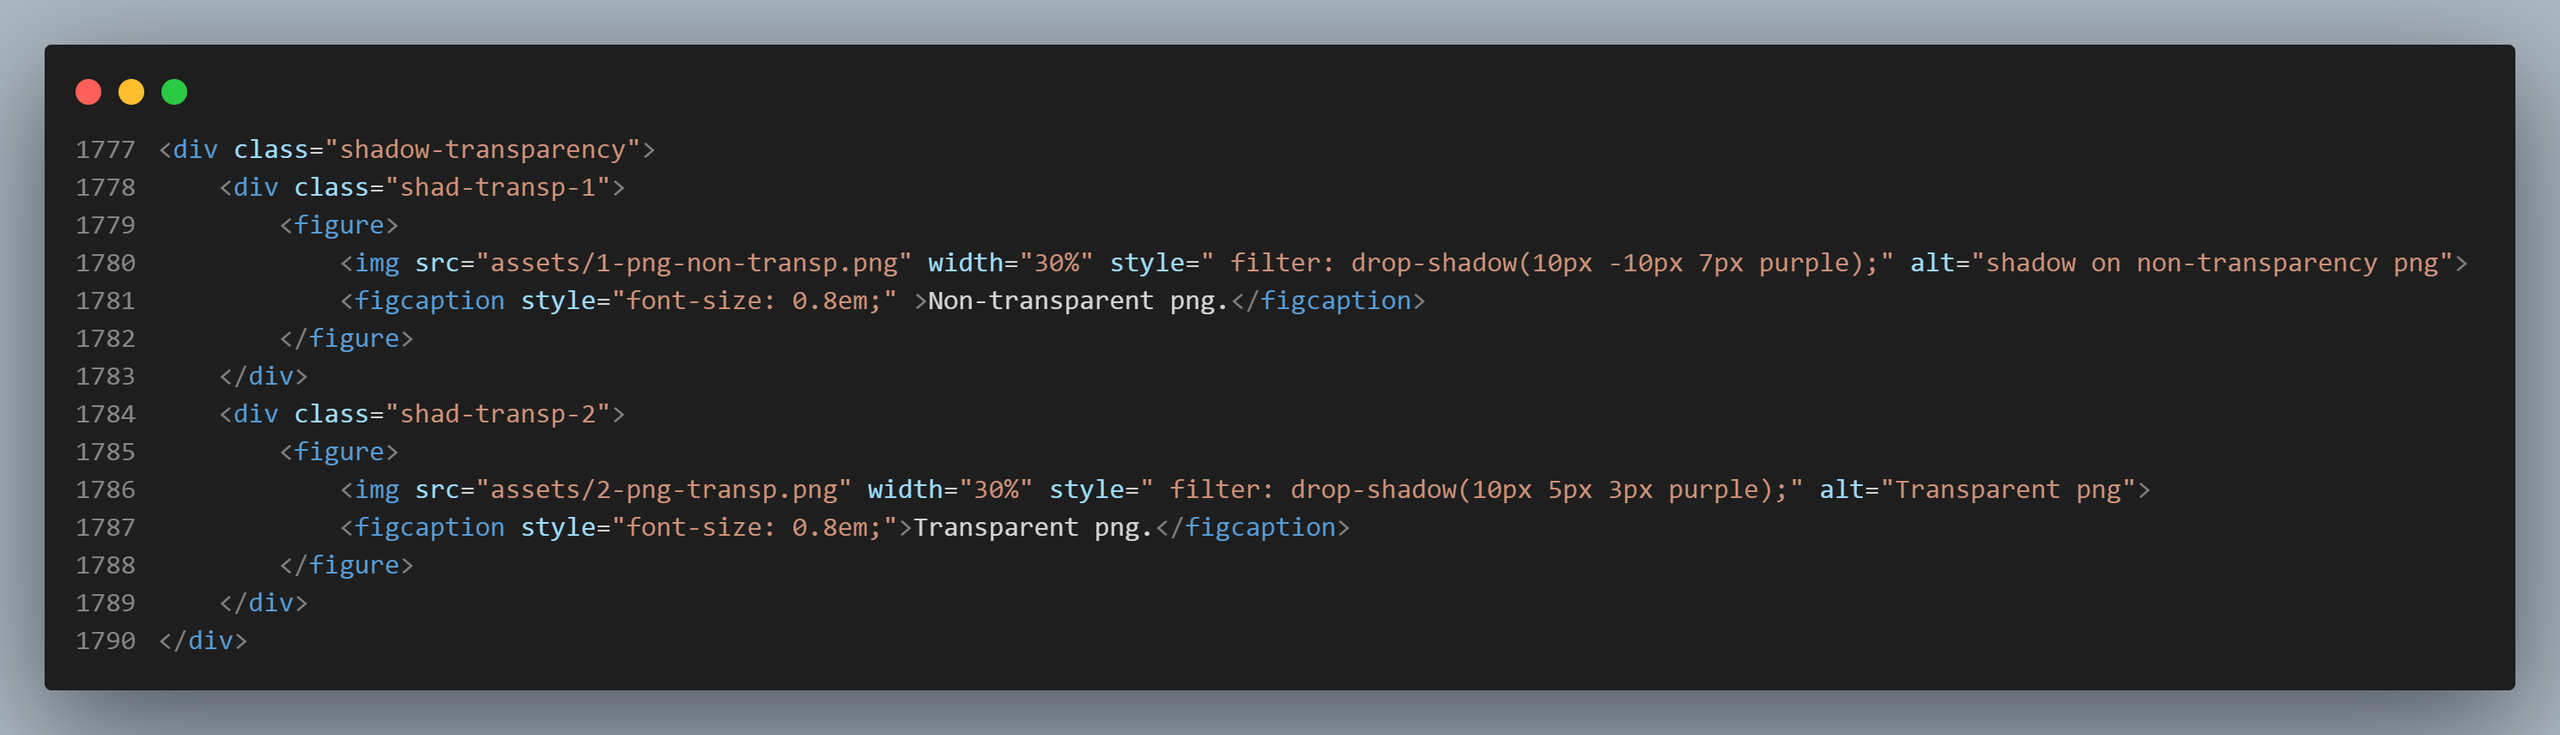
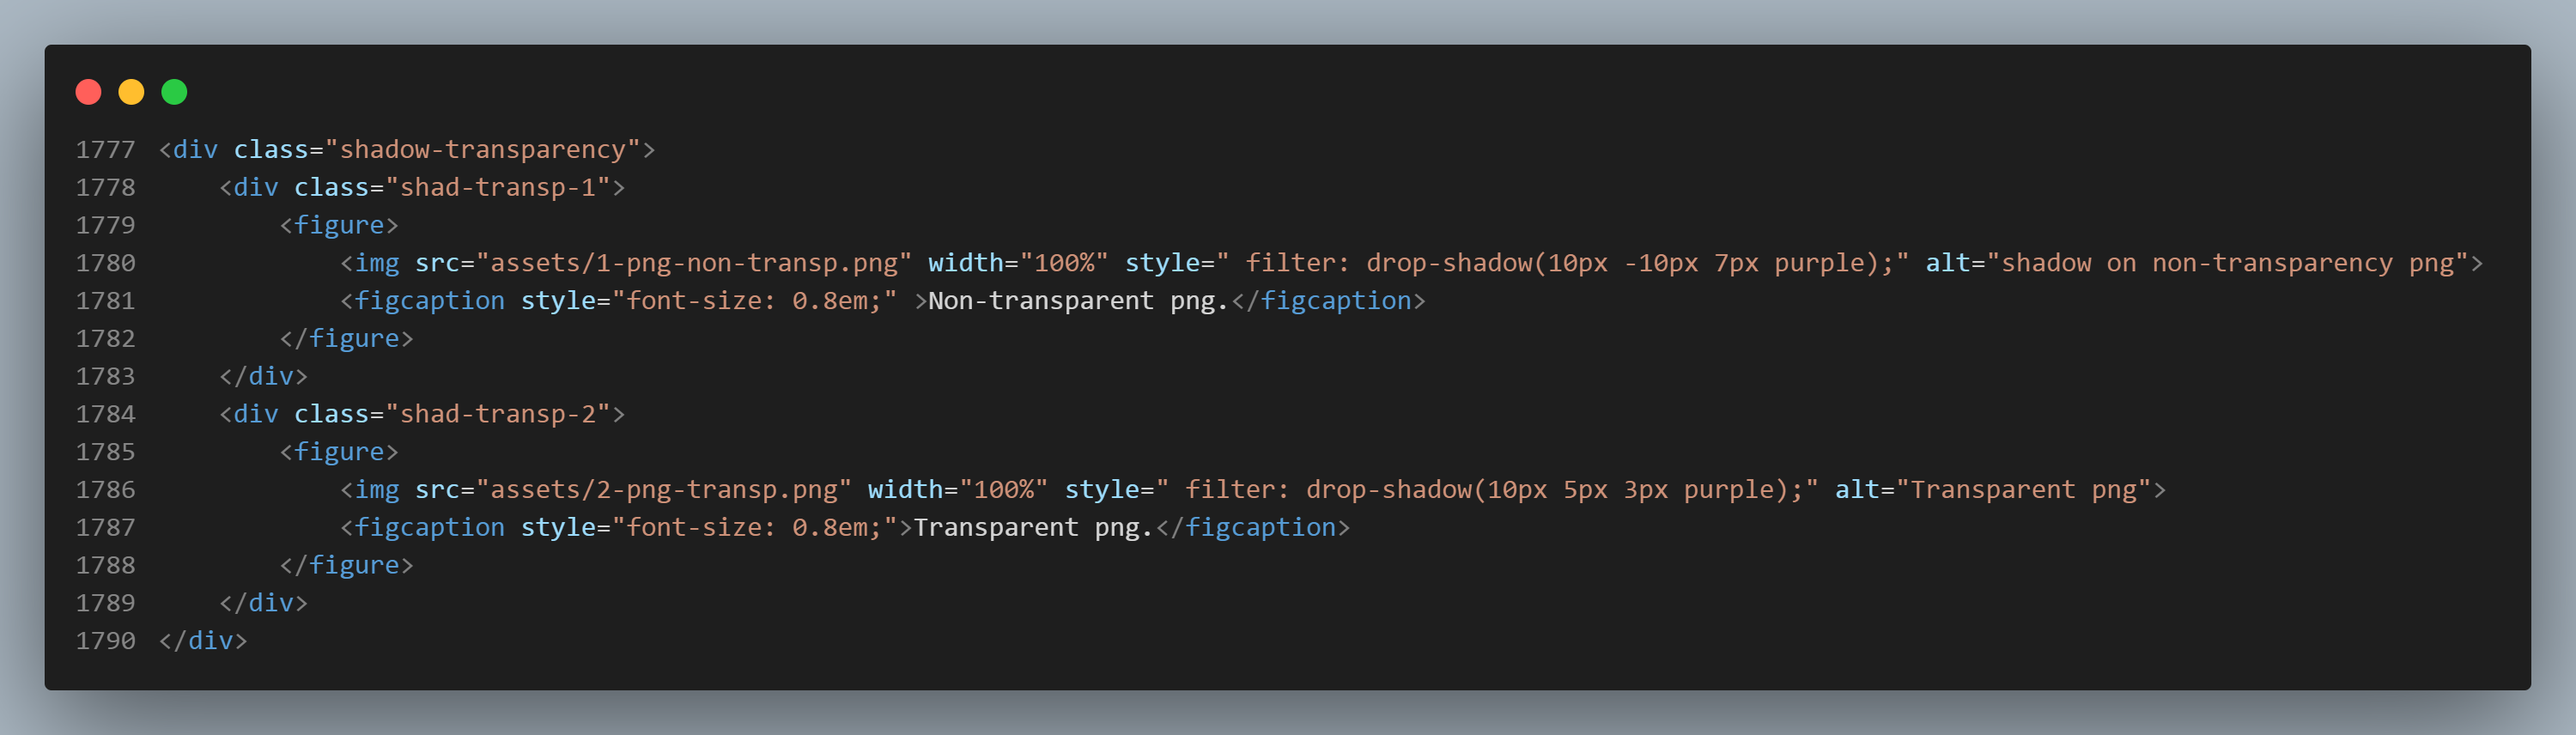
Shadow transparency box settings a little better.

diff --git a/m2-css-only/continuing.html b/m2-css-only/continuing.html
@@ -1777,20 +1777,24 @@
                 <div class="shadow-transparency">
                     <div class="shad-transp-1">
                         <figure>
-                            <img src="assets/1-png-non-transp.png" width="30%" style=" filter: drop-shadow(10px -10px 7px purple);" alt="shadow on non-transparency png">
+                            <img src="assets/1-png-non-transp.png" width="100%" style=" filter: drop-shadow(10px -10px 7px purple);" alt="shadow on non-transparency png">
                             <figcaption style="font-size: 0.8em;" >Non-transparent png.</figcaption>
                         </figure>
                     </div>
                     <div class="shad-transp-2">
                         <figure>
-                            <img src="assets/2-png-transp.png" width="30%" style=" filter: drop-shadow(10px 5px 3px purple);" alt="Transparent png">
+                            <img src="assets/2-png-transp.png" width="100%" style=" filter: drop-shadow(10px 5px 3px purple);" alt="Transparent png">
                             <figcaption style="font-size: 0.8em;">Transparent png.</figcaption>
                         </figure>
                     </div>
                 </div>
 
             <p>
-                Here is how I made the box above. The HTML code:
+                Here is how I made the box above. I tried until it worked but it's not exactly what I intended to do. I'll learn it soon. The HTML code:
+            </p>
+
+            <p>
+                I made some modifications and it's a little bit more like I want. Image width from 30% to 100%. "Shadow-transparency" class width set: 70%. Ok, but I couldn't centralilze the pictures in the big box.
             </p>
 
             <figure>

diff --git a/m2-css-only/m2.css b/m2-css-only/m2.css
@@ -480,8 +480,9 @@ filter: drop-shadow(25px 25px 15px rgb(0, 0, 0));
 }
 
 .shadow-transparency {
+  width: 70%;
   display: flex;
-  padding: 1%;
+  padding: 3%;
   background-color: rgb(127, 160, 250);
 }
 
